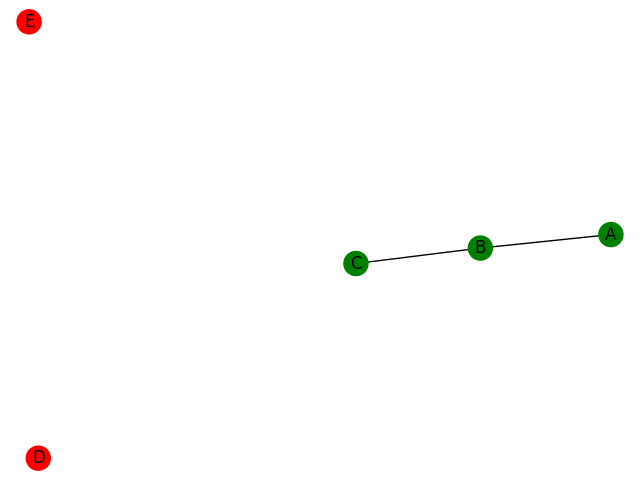
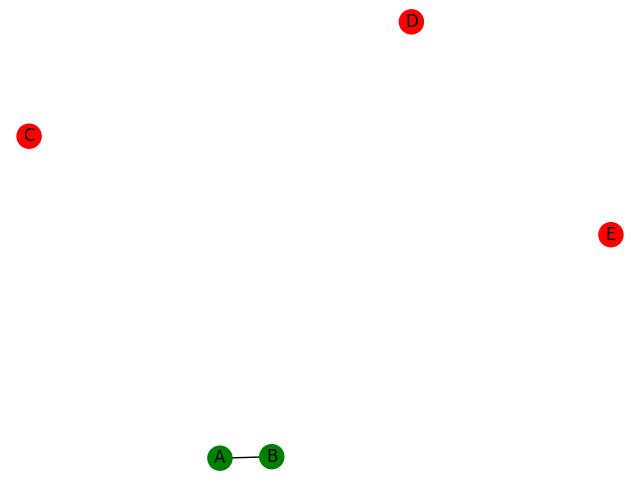
Encuentra camino en G y dibuja el camino

diff --git a/MyWindows.py b/MyWindows.py
@@ -9,20 +9,35 @@ import re
 import networkx as nx
 import matplotlib.pyplot as plt
 
-def drawGraph(vertices, edges, path):
-    G=nx.Graph()
+edgesPath = ""
+verticesPath = ""
+
+
+def drawGraph(vertices, edges):
+    G = nx.Graph()
+    plt.close()
     G.add_nodes_from(vertices)
     G.add_edges_from(edges)
-    print(G.nodes())
-    color_map = []
+    nx.draw(G,with_labels = True)    
+    plt.savefig("path_graph1.png")
+    plt.show()  
+
+def drawPath(path=[]):
+    G = nx.Graph()
+    G.add_nodes_from(verticesPath)
+    G.add_edges_from(edgesPath)
+    plt.close()
+    color_map = []        
     for node in G:
         if node in path:
             color_map.append('green')
         else:
             color_map.append('red')
-    nx.draw(G,with_labels = True, node_color=color_map)    
+    nx.draw(G,with_labels = True, node_color=color_map)
     plt.savefig("path_graph1.png")
-    plt.show()  
+    plt.show()
+            
+
 
 
 
@@ -89,38 +104,79 @@ class Window(QMainWindow):
         self.labelGraphDegree.setMaximumWidth(500)
         self.labelGraphDegree.setFixedWidth(500)
 
+
+        self.labelPath = QtWidgets.QLabel(self)
+        self.labelPath.setText("Enter Path:")
+        self.labelPath.move(50,280)
+        self.labelPath.setVisible(False)
+
+        self.inputPath = QtWidgets.QTextEdit(self)
+        self.inputPath.setPlaceholderText("Ex: A,B")
+        self.inputPath.setMaximumWidth(500)
+        self.inputPath.setFixedWidth(500)
+        self.inputPath.move(50,310)
+        self.inputPath.setVisible(False)
+
+        self.submitPath = QtWidgets.QPushButton(self)
+        self.submitPath.setText("Get Path")
+        self.submitPath.setMaximumWidth(200)
+        self.submitPath.setFixedWidth(190)
+        self.submitPath.move(50,350)
+        self.submitPath.setVisible(False)
+        self.submitPath.clicked.connect(self.getPath)
+
         self.show()
     
     
 
 
     def getGraphs(self):
-        g = Graph()
         vertices = self.inputVertex.toPlainText().split(",")
         for vertex in vertices:
             g.addVertex(Vertex (vertex))
         edges = self.inputEdges.toPlainText()
         edgesSorted = re.findall(r'\(.*?\)', edges)
-        i=0
         edgesDrawing = []
+        isValid = True
         for edge in edgesSorted:
             edge = edge.replace('(','')
             edge = edge.replace(')','')
-            edgesSorted[i] = edge
-            edgesDrawing.append((edge[:1], edge[1:]))
-            g.addEdge(edge[:1], edge[1:])
-        g.printGraph()
-        lowestDegree, lowestVertex = g.lowestDegree()
-        sumDegree = g.sumDegree()
-        graphDegree = g.graphDegree()
-        self.labelLowestDegree.setText("El grado del vertice " + lowestVertex + " es el menor con un grado: " +str(lowestDegree))
-        self.labelDegreeSum.setText("Suma de los grados: "+str(sumDegree))
-        self.labelGraphDegree.setText("El grado del grafo: "+ str(graphDegree))
-        x = g.shortestPath('A','C')
-        drawGraph(vertices,edgesDrawing,x)
-        
+            if(edge[:1] in vertices and edge[1:] in vertices):
+                edgesDrawing.append((edge[:1], edge[1:]))
+                g.addEdge(edge[:1], edge[1:])
+            else:
+                isValid = False
+        if(isValid):
+            lowestDegree, lowestVertex = g.lowestDegree()
+            sumDegree = g.sumDegree()
+            graphDegree = g.graphDegree()
+            drawGraph(vertices,edgesDrawing)
+            global edgesPath
+            edgesPath = edgesDrawing
+            global verticesPath 
+            verticesPath = vertices
+            self.labelLowestDegree.setText("El grado del vertice " + lowestVertex + " es el menor con un grado: " +str(lowestDegree))
+            self.labelDegreeSum.setText("Suma de los grados: "+str(sumDegree))
+            self.labelGraphDegree.setText("El grado del grafo: "+ str(graphDegree))
+            g.printGraph()
+            self.labelPath.setVisible(True)
+            self.inputPath.setVisible(True)
+            self.submitPath.setVisible(True)
+            
 
-App = QApplication(sys.argv)
-window = Window()
+    
+    def getPath(self):
+        input = self.inputPath.toPlainText().split(",")
+        if(len(input)==2):
+            path = g.shortestPath(input[0],input[1])
+            drawPath(path)              
+          
 
-sys.exit(App.exec())
+if __name__ == '__main__':
+    G=nx.Graph()
+    g = Graph()
+    
+    App = QApplication(sys.argv)
+    window = Window()
+
+    sys.exit(App.exec())

diff --git a/Undirected_Graph.py b/Undirected_Graph.py
@@ -59,7 +59,6 @@ class Graph:
 		return sum
 
 	def printGraph(self):
-		print(self.vertices)
 		for key in sorted(list(self.vertices.keys())):
 			print(key + str(self.vertices[key].neighbors))
 	
@@ -67,14 +66,13 @@ class Graph:
 		explored = []
 		queue = [[x]]
 		if x == y:
-			return 
+			return []
 		
 		while queue:
 			path = queue.pop(0)
 			node = path[-1]
 			if node not in explored:
 				neighbours = self.vertices[node].neighbors
-				print(neighbours)
 				for neighbour in neighbours:
 					new_path = list(path)
 					new_path.append(neighbour)
@@ -82,17 +80,6 @@ class Graph:
 					if neighbour == y:
 						return new_path
 				explored.append(node)
-		return
-
-# g = Graph()
-# a = Vertex('A')
-# g.addVertex(a)
-# g.addVertex(Vertex('B'))
-# for i in range(ord('A'), ord('K')):
-# 	g.addVertex(Vertex(chr(i)))
-
-# edges = ['AB', 'AE', 'BF', 'CG', 'DE', 'DH', 'EH', 'FG', 'FI', 'FJ', 'GJ', 'HI']
-# for edge in edges:
-# 	g.addEdge(edge[:1], edge[1:])
-
-# g.printGraph()
+		return []
+	
+	# def hasCycle(self,)
